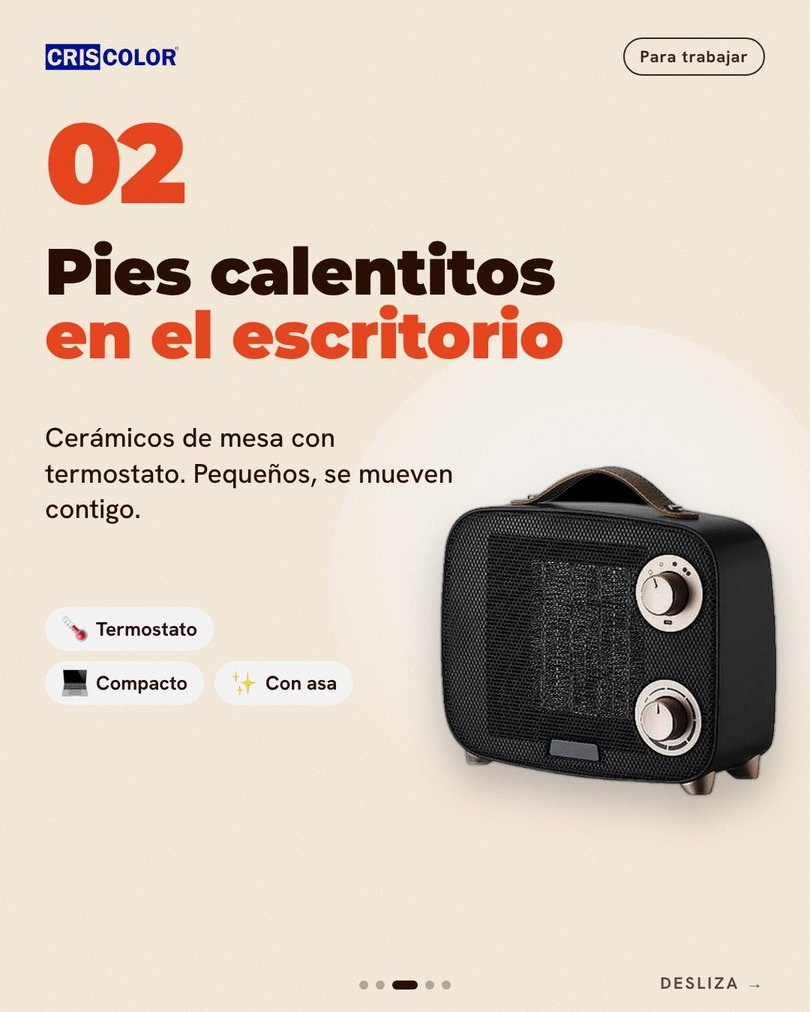
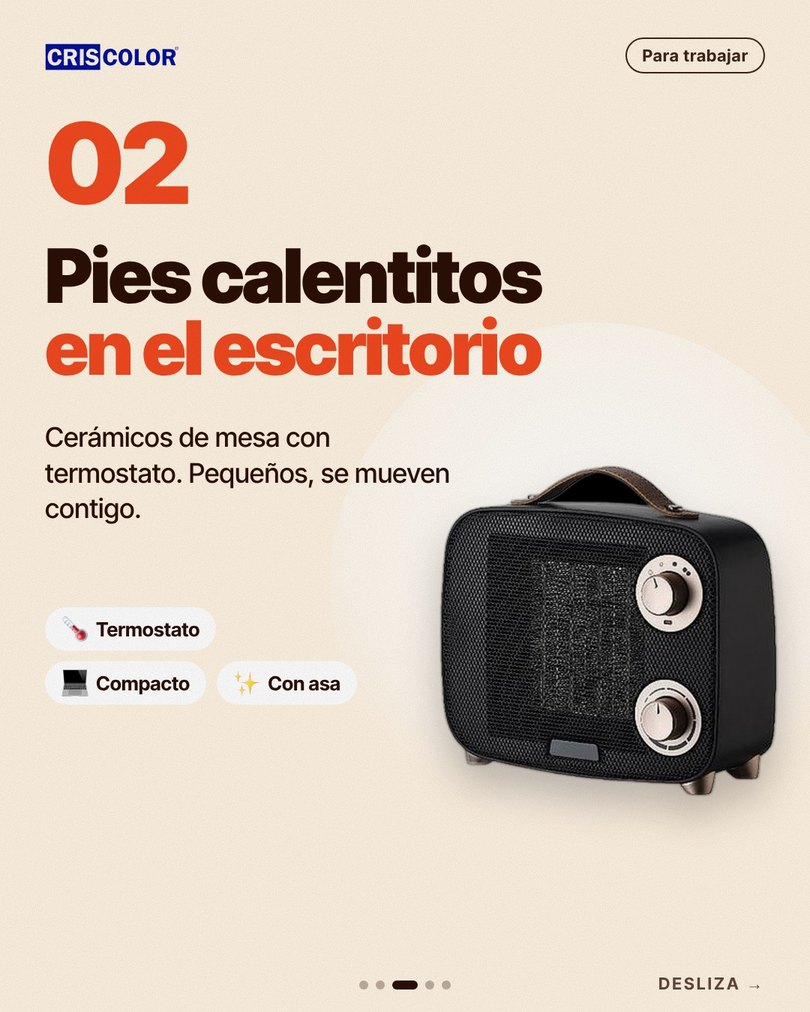
Historias y posts con tipografía Inter Tight
Claude-Session: https://claude.ai/code/session_016vX2tAnYJNsb3voomsbycX

diff --git a/data/weeks.js b/data/weeks.js
@@ -7,7 +7,7 @@ window.WEEKS = [
   "items": [
    {
     "id": "s46-lun",
-    "v": 2,
+    "v": 3,
     "type": "story",
     "day": "Lunes",
     "date": "9 nov",
@@ -17,7 +17,7 @@ window.WEEKS = [
    },
    {
     "id": "p46-mar",
-    "v": 2,
+    "v": 3,
     "type": "post",
     "day": "Martes",
     "date": "10 nov",
@@ -28,7 +28,7 @@ window.WEEKS = [
    },
    {
     "id": "s46-mie",
-    "v": 2,
+    "v": 3,
     "type": "story",
     "day": "Miércoles",
     "date": "11 nov",
@@ -38,7 +38,7 @@ window.WEEKS = [
    },
    {
     "id": "p46-jue",
-    "v": 2,
+    "v": 3,
     "type": "post",
     "day": "Jueves",
     "date": "12 nov",
@@ -49,7 +49,7 @@ window.WEEKS = [
    },
    {
     "id": "s46-vie",
-    "v": 2,
+    "v": 3,
     "type": "story",
     "day": "Viernes",
     "date": "13 nov",

diff --git a/index.html b/index.html
@@ -31,7 +31,7 @@
   </form>
 </div>
 
-<script src="/data/weeks.js?v=10"></script>
+<script src="/data/weeks.js?v=11"></script>
 <script src="/assets/app.js?v=4"></script>
 </body>
 </html>
